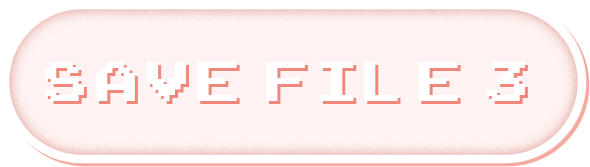
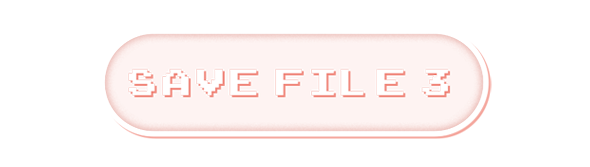
lam cho may cai anh r day

Changed region(s): [[0.0, 0.0299, 1.0, 1.0], [0.0915, 0.2695, 0.9153, 0.8383], [0.2136, 0.1796, 0.7932, 0.2994]]

diff --git a/Client/scene/scene/CreditScene.java b/Client/scene/scene/CreditScene.java
@@ -3,6 +3,7 @@ package scene;
 import java.awt.Color;
 import java.awt.Graphics;
 
+import javax.swing.BorderFactory;
 import javax.swing.ImageIcon;
 import javax.swing.JButton;
 import javax.swing.JPanel;
@@ -12,10 +13,14 @@ import java.awt.GridBagConstraints;
 import java.awt.Insets;
 import java.awt.event.ActionEvent;
 import java.awt.event.ActionListener;
+import java.awt.event.MouseEvent;
+import java.awt.event.MouseListener;
 
 public class CreditScene extends JPanel {
 
 	private Container container;
+	
+	private JButton btnBack;
 	/**
 	 * Create the panel.
 	 */
@@ -39,21 +44,47 @@ public class CreditScene extends JPanel {
 		gridBagLayout.rowWeights = new double[]{5.0, 1.0, Double.MIN_VALUE};
 		setLayout(gridBagLayout);
 		
-		JButton btnback = new JButton();
-		btnback.setBackground(Color.WHITE);
+		btnBack = new JButton();
+		btnBack.setOpaque(false);
+		btnBack.setFocusPainted(false);
+		btnBack.setBorderPainted(false);
+		btnBack.setContentAreaFilled(false);
+		setBorder(BorderFactory.createEmptyBorder(0,0,0,0));
+		btnBack.setIcon(new ImageIcon("data/btnBack.png"));
 		GridBagConstraints gbc_btnback = new GridBagConstraints();
 		gbc_btnback.fill = GridBagConstraints.BOTH;
 		gbc_btnback.gridx = 1;
 		gbc_btnback.gridy = 1;
-		add(btnback, gbc_btnback);
-		btnback.addActionListener(new BtnBack());
+		add(btnBack, gbc_btnback);
+		btnBack.addMouseListener(new MouseBack());
 	}
 	
-	class BtnBack implements ActionListener {
-		
+	class MouseBack implements MouseListener {
+
 		@Override
-		public void actionPerformed(ActionEvent e) {
-			container.showCreditScene();
+		public void mouseClicked(MouseEvent e) {
+			
 		}
+
+		@Override
+		public void mousePressed(MouseEvent e) {
+			container.showMenuScene();
+		}
+
+		@Override
+		public void mouseReleased(MouseEvent e) {
+			
+		}
+
+		@Override
+		public void mouseEntered(MouseEvent e) {
+			btnBack.setIcon(new ImageIcon("data/btnBackPress.png"));
+		}
+
+		@Override
+		public void mouseExited(MouseEvent e) {
+			btnBack.setIcon(new ImageIcon("data/btnBack.png"));
+		}
+		
 	}
 }

diff --git a/Client/scene/scene/MenuScene.java b/Client/scene/scene/MenuScene.java
@@ -151,36 +151,15 @@ public class MenuScene extends JPanel {
 			
 	}
 	
-	class BtnSinglePlayer implements ActionListener {
-
-		@Override
-		public void actionPerformed(ActionEvent e) {
-			String name = txtNameInput.getText();
-			container.getClient().setClientName(name);
-			
-			try {
-				container.showSinglePlayerScene();
-			} catch (IOException | ParseException e1) {
-				e1.printStackTrace();
-			}			
-		}	
-	}
-	
-	class BtnMutilPlayer implements ActionListener {
-		
-		@Override
-		public void actionPerformed(ActionEvent e) {
-			String name = txtNameInput.getText();
-			container.getClient().setClientName(name);
-			
-			container.showServerSelectScene(container.getClient().getChillThread().getServerAvailable());
-		}	
-	}
-	
 	class MouseSinglePlayer implements MouseListener {
 
 		@Override
 		public void mouseClicked(MouseEvent e) {
+				
+		}
+
+		@Override
+		public void mousePressed(MouseEvent e) {
 			String name = txtNameInput.getText();
 			container.getClient().setClientName(name);
 			
@@ -188,12 +167,7 @@ public class MenuScene extends JPanel {
 				container.showSinglePlayerScene();
 			} catch (IOException | ParseException e1) {
 				e1.printStackTrace();
-			}	
-		}
-
-		@Override
-		public void mousePressed(MouseEvent e) {
-			
+			}
 		}
 
 		@Override
@@ -217,15 +191,15 @@ public class MenuScene extends JPanel {
 
 		@Override
 		public void mouseClicked(MouseEvent e) {
-			String name = txtNameInput.getText();
-			container.getClient().setClientName(name);
 			
-			container.showServerSelectScene(container.getClient().getChillThread().getServerAvailable());	
 		}
 
 		@Override
 		public void mousePressed(MouseEvent e) {
+			String name = txtNameInput.getText();
+			container.getClient().setClientName(name);
 			
+			container.showServerSelectScene(container.getClient().getChillThread().getServerAvailable());	
 		}
 
 		@Override

diff --git a/Client/scene/scene/HowToPlayScene.java b/Client/scene/scene/HowToPlayScene.java
@@ -11,11 +11,15 @@ import javax.swing.JPanel;
 import java.awt.GridBagLayout;
 import java.awt.event.ActionEvent;
 import java.awt.event.ActionListener;
+import java.awt.event.MouseEvent;
+import java.awt.event.MouseListener;
 import java.awt.GridBagConstraints;
 
 public class HowToPlayScene extends JPanel {
 
 	private Container container;
+	
+	private JButton btnBack;
 	
 	/**
 	 * Create the panel.
@@ -40,26 +44,46 @@ public class HowToPlayScene extends JPanel {
 	
 	public void setUp() {
 		
-		JButton btnBack = new JButton();
+		btnBack = new JButton();
 		btnBack.setOpaque(false);
 		btnBack.setFocusPainted(false);
 		btnBack.setBorderPainted(false);
 		btnBack.setContentAreaFilled(false);
 		setBorder(BorderFactory.createEmptyBorder(0,0,0,0));
-		btnBack.setIcon(new ImageIcon("data/btnSinglePlayer.png"));
-		btnBack.setBackground(Color.WHITE);
+		btnBack.setIcon(new ImageIcon("data/btnBack.png"));
 		GridBagConstraints gbc_btnBack = new GridBagConstraints();
 		gbc_btnBack.gridx = 1;
 		gbc_btnBack.gridy = 1;
 		add(btnBack, gbc_btnBack);
-		btnBack.addActionListener(new BtnBack());
+		btnBack.addMouseListener(new MouseBack());
 	}
 	
-	class BtnBack implements ActionListener {
-		
+	class MouseBack implements MouseListener {
+
 		@Override
-		public void actionPerformed(ActionEvent e) {
+		public void mouseClicked(MouseEvent e) {
+			
+		}
+
+		@Override
+		public void mousePressed(MouseEvent e) {
 			container.showMenuScene();
 		}
+
+		@Override
+		public void mouseReleased(MouseEvent e) {
+			
+		}
+
+		@Override
+		public void mouseEntered(MouseEvent e) {
+			btnBack.setIcon(new ImageIcon("data/btnBackPress.png"));
+		}
+
+		@Override
+		public void mouseExited(MouseEvent e) {
+			btnBack.setIcon(new ImageIcon("data/btnBack.png"));
+		}
+		
 	}
 }

diff --git a/Client/scene/scene/WaitScene.java b/Client/scene/scene/WaitScene.java
@@ -33,7 +33,7 @@ public class WaitScene extends JPanel {
 		ImageIcon background = new ImageIcon("data/background.png");
 		
 		g.drawImage(background.getImage(), 0, 0, this.getWidth(), this.getHeight(), null);
-		g.drawImage(waiting.getImage(), this.getWidth()/4, this.getHeight()/4, this.getWidth()/2, this.getHeight()/4, null);
+		g.drawImage(waiting.getImage(), this.getWidth()/4, this.getHeight()/2, this.getWidth()/2, this.getHeight()/4, null);
 
 	}
 	
@@ -52,8 +52,6 @@ public class WaitScene extends JPanel {
 		btnBack.setBorderPainted(false);
 		btnBack.setContentAreaFilled(false);
 		btnBack.setIcon(new ImageIcon("data/btnBack.png"));
-		btnBack.setForeground(Color.WHITE);
-		btnBack.setBackground(Color.GRAY);
 		GridBagConstraints gbc_btnBack = new GridBagConstraints();
 		gbc_btnBack.insets = new Insets(0, 0, 0, 0);
 		gbc_btnBack.gridx = 0;

diff --git a/Client/scene/scene/PauseScene.java b/Client/scene/scene/PauseScene.java
@@ -242,7 +242,7 @@ public class PauseScene extends JPanel {
 			
 			int i = value.id ;
 			if(isSelected) {
-				name.setIcon(new ImageIcon("data/btnSaveFile" + i + ".png"));
+				name.setIcon(new ImageIcon("data/btnSaveFile" + i + "Press.png"));
 			}
 			else {
 				name.setIcon(new ImageIcon("data/btnSaveFile" + i + ".png"));

diff --git a/src/object/ZaWarudo.java b/src/object/ZaWarudo.java
@@ -8,7 +8,7 @@ import algorithm.Cooldown;
 
 public class ZaWarudo {
 	public static boolean isZaWarudo = false;
-	public static Cooldown zaWarudoCD = new Cooldown(3000);
+	public static Cooldown zaWarudoCD = new Cooldown(5000);
 	public int x;
 	public int y;
 	

diff --git a/src/algorithm/CalScore.java b/src/algorithm/CalScore.java
@@ -24,6 +24,6 @@ public class CalScore {
 		float time = System.currentTimeMillis() / 1000 - preTime / 1000 - expectedTime;
 		preTime = System.currentTimeMillis();
 	
-		return 10 - time / 2;
+		return (10 - time / 4) >= 0 ? (10 - time / 4) : 0;
 	}
 }

diff --git a/src/object/Player.java b/src/object/Player.java
@@ -125,6 +125,9 @@ public class Player {
 	}
 	
 	private boolean isRightWay(Position tmp, String direct) {
+		if(ZaWarudo.isZaWarudo) {
+			return true;
+		}
 		int x = tmp.x / SIZE;
 		int y = tmp.y / SIZE;
 		int checkX = tmp.x % SIZE;
